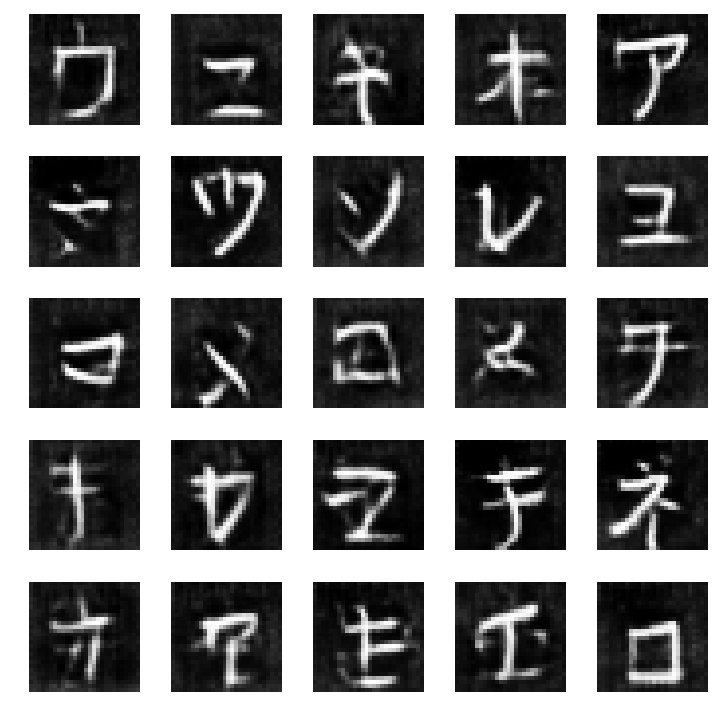
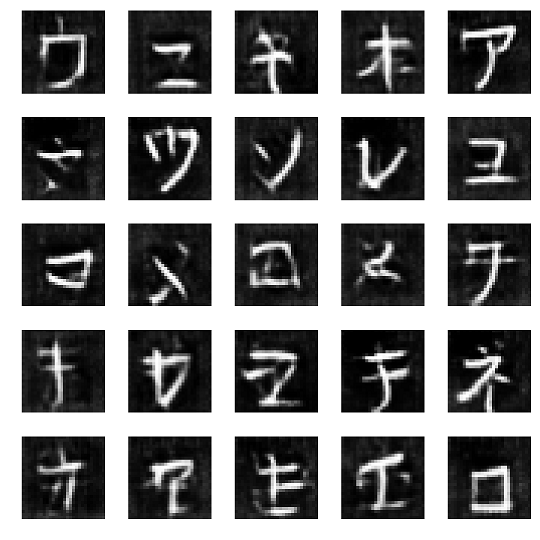
Updated README. Adjusted illustrations sizes.

diff --git a/README.md b/README.md
@@ -1,22 +1,61 @@
-# 敵対的生成ネットワーク（Generative Adversarial Networks, GAN）による手書きカタカナ文字の生成（Kerasでの実装）
+# 敵対的生成ネットワーク（GAN）による手書きカタカナ文字の生成（Kerasでの実装）
 
 ## 
 
 ## 手書きカタカナ文字のデータについて
-手書きのカタカナ文字の画像データはETLデータベースに公開されているデータを利用させていただいています。
+手書きのカタカナ文字の画像データはETLデータベースに公開されているデータを利用している。このデータは、OCR機器で収集された、「1,383人の筆記者・157,662の合計文字数」の手書き文字の画像データとなっている。
 
+114文字の中から、カタカナの46文字のみを利用している。
+
+### 詳細（[ETL6ページにより](http://etlcdb.db.aist.go.jp/etlcdb/etln/etl6/etl6.htm)）
+```
+ＯＣＲシート仕様
+    文字枠      : 横 5mm、縦 6mm
+    文字枠ピッチ : 横 6.35mm、縦 12.7mm
+    文字枠数    : 26 x 17 = 442
+
+対象文字 (計 114文字)
+    数字     : 10
+    英大文字 : 26
+    カタカナ : 46
+    特殊文字 : 32
+
+ＯＣＲシート収集
+    筆記者数     : 1,383人
+    全サンプル数 : 157,662
+
+観測装置
+    濃度レベル : 16 (4bit)
+    標本点数   : 64 x 63 = 4,032 pixels
+
+データベース作成
+    観測期間   : 1976年12月～1977年5月
+```
+
+### 前処理
+* 各画像を28x28にリサイズ（MNISTと同じサイズ）
+* ピクセル値を[0, 255]から[-1, 1]に正規化
+
+### 実画像のサンプル
 ![real_images_sample](illustrations/real_images_sample.png "Real images sample")
 
 ## GANについて
+敵対的生成ネットワーク([Generative Adversarial Networks (GAN), Goodfellow et al. 2014](https://arxiv.org/abs/1406.2661))とは、偽造画像を生成するGeneratorネットワーク（G）と、実画像と偽造画像を判別するDiscriminatorネットワーク（D）を戦わせる生成モデルの学習パラダイムである。GはDをだませるような偽造画像を生成できるように学習し、Dは実画像と偽造画像をできるだけ判別できるように学習します。
 
-[How to Train a GAN? Tips and tricks to make GANs work](https://github.com/soumith/ganhacks)によるアドバイスを反映しています：
-* スパースな勾配を避けるために、Fully convolutionalネットワーク構造とLeakyReLUを採用
-* 画像を[-1, 1]に正規化し、tanhの活性化関数で生成
-* 実画像と偽造画像を別々のバッチでDiscriminatorを学習させる
-* **z**は、Uniform分布ではなく、正規分布から生成
+本リポジトリでは、手書きのカタカナ文字の画像を生成するために、畳み込み敵対的生成ネットワーク（[DCGAN, Radford et al. 2015](https://arxiv.org/abs/1511.06434)）の１種を実装している。
+
+### GAN構造のあれこれ
+* [How to Train a GAN? Tips and tricks to make GANs work](https://github.com/soumith/ganhacks)による下記のアドバイスを反映している：
+  * スパースな勾配を避けるために、Fully convolutionalネットワーク構造とLeakyReLUを採用
+  * 画像を[-1, 1]に正規化し、tanhの活性化関数で生成
+  * 実画像と偽造画像を別々のバッチでDiscriminatorを学習させる
+  * **z**は、Uniform分布ではなく、正規分布から生成
+* hyperparameterチューニングのために参考になったリンク
+  * [GAN by Example using Keras on Tensorflow Backend](https://medium.com/towards-data-science/gan-by-example-using-keras-on-tensorflow-backend-1a6d515a60d0)
+  * [MNIST Generative Adversarial Model in Keras](https://oshearesearch.com/index.php/2016/07/01/mnist-generative-adversarial-model-in-keras/)
 
 ## 使い方
-notebooks/main_ETL6_katakana.ipynbに使い方の例を示しています。
+notebooks/main_ETL6_katakana.ipynbに使い方の例を示している。
 
 ### DCGANの定義
 指定可能なDCGAN hyperparameterに関してはkerasdcgan/models.pyをご参照ください。
